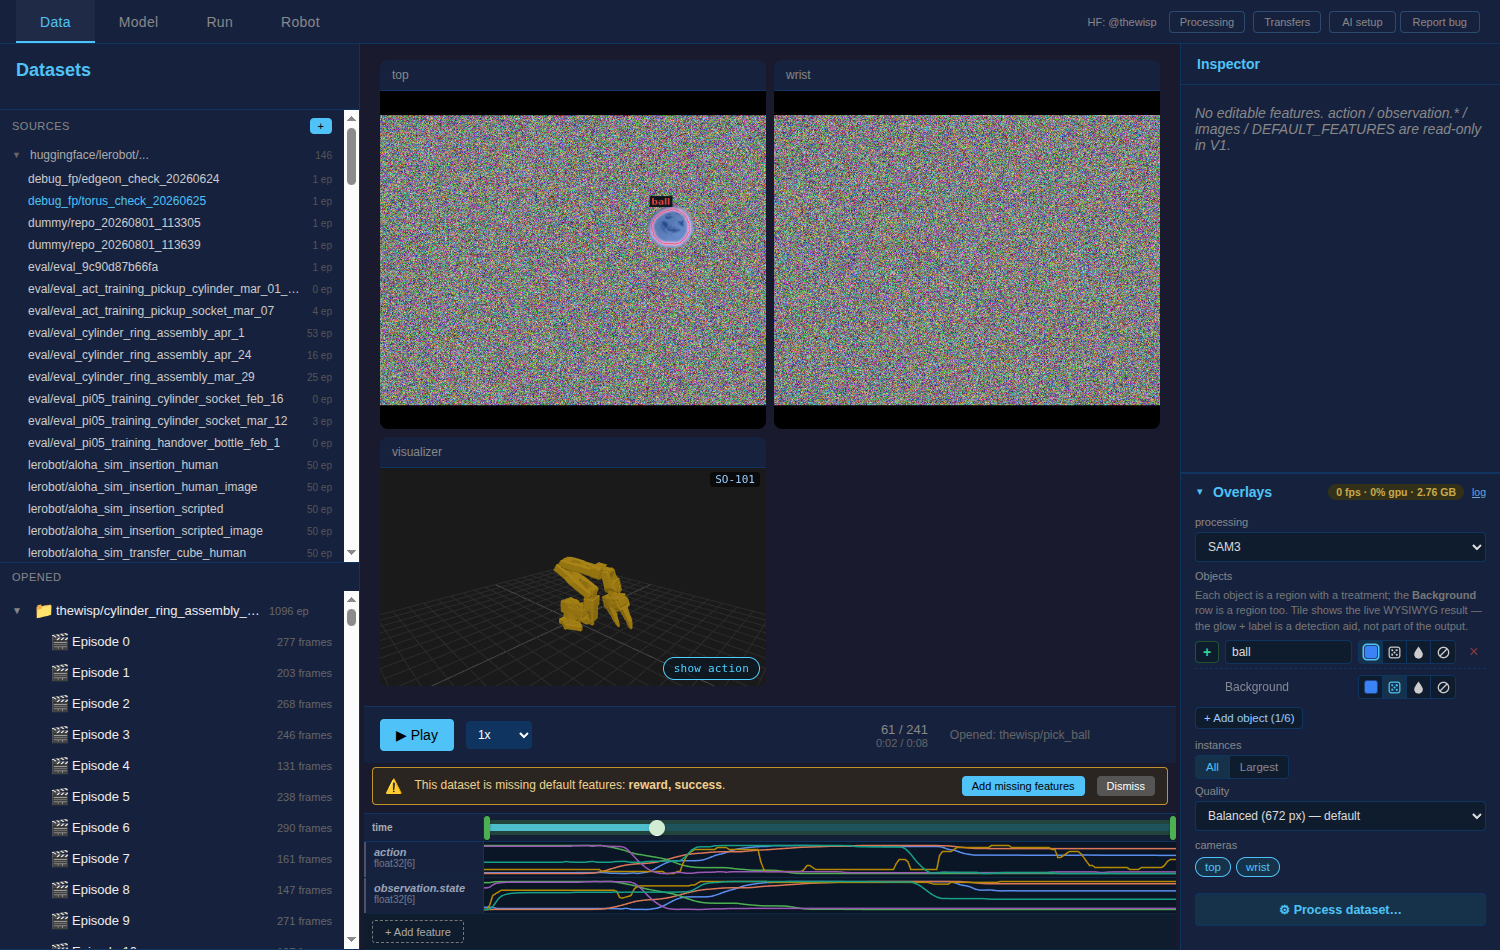
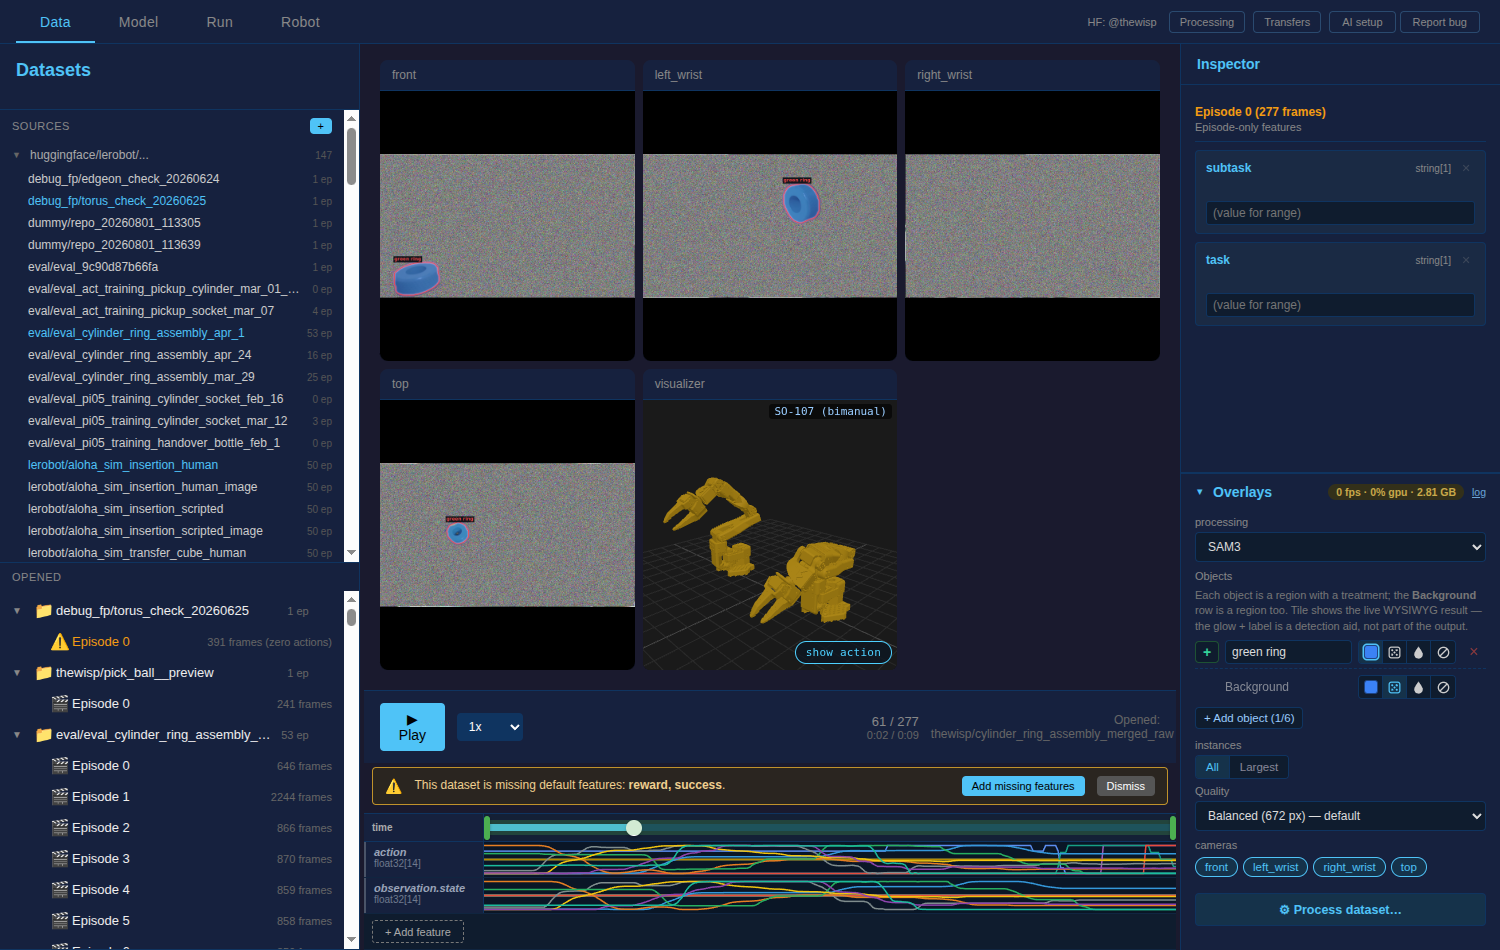
docs(gui): re-capture scope evidence on the warm-worker build
The committed screenshot sequence predated #73, so it documented the old switch
cost: shot 2's panel sat over a dead worker and shot 3's "restored" state was
reached only after a full SAM3 reload. Re-captured on this branch rebased onto
the merged fix: shot 2 now shows the "off - model warm" badge on the fresh
dataset (the model survives the switch), and shot 3 was reached 1.4 s after
switching back (measured by the capture script, which waits for tiles to
actually draw instead of sleeping).

Also swaps the dataset pair to cylinder_ring_assembly_merged_raw (4 cameras,
real rig) vs aloha_sim_insertion_human (sim) - visually maximally different,
which is the scope feature's whole premise - and away from pick_ball, whose
cache has carried an unrelated integrity error since 2025-11 (ep4 duplicated;
its Dataset Error toast polluted every frame). Bumps the overlays.js cache
buster past main's so scoped-panel JS actually refreshes for existing clients.

diff --git a/src/lerobot/gui/static/index.html b/src/lerobot/gui/static/index.html
@@ -682,7 +682,7 @@ nebius iam auth-public-key generate \
     <script src="/static/overlay_pull_gate.js?v=3"></script>
     <script src="/static/camera_release.js?v=1"></script>
     <script src="/static/process.js?v=13"></script>
-    <script src="/static/overlays.js?v=60"></script>
+    <script src="/static/overlays.js?v=61"></script>
     <script src="/static/model.js?v=6"></script>
     <script src="/static/training.js?v=31"></script>
     <script src="/static/add_host_dialog.js?v=4"></script>
